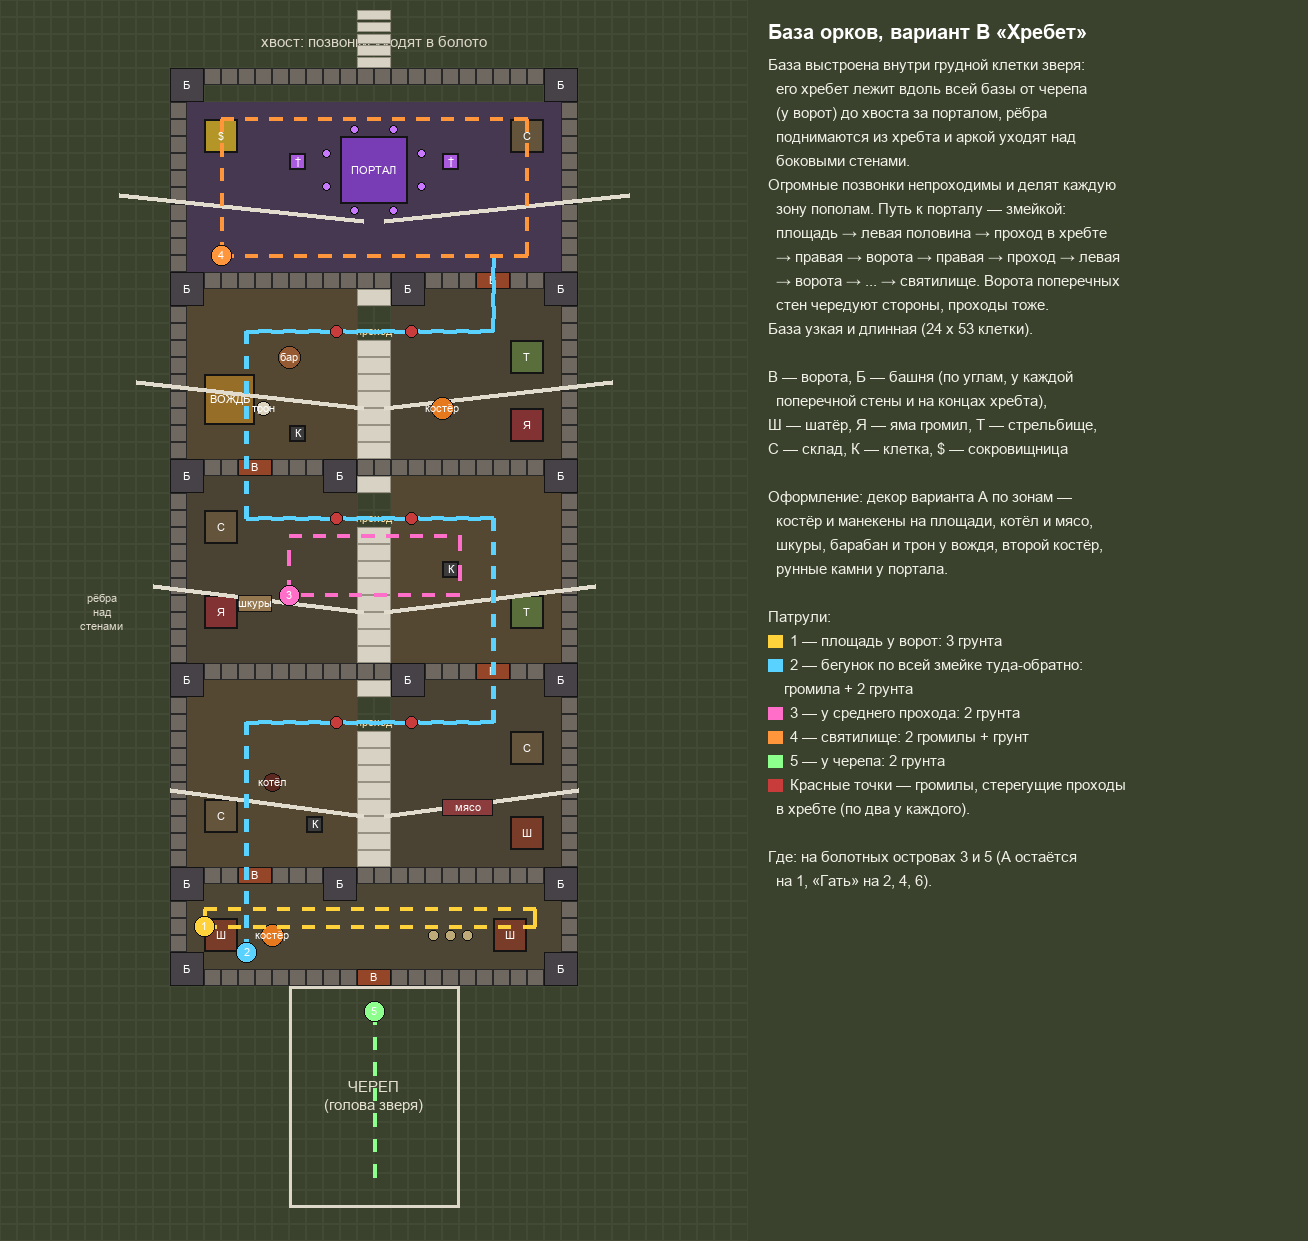
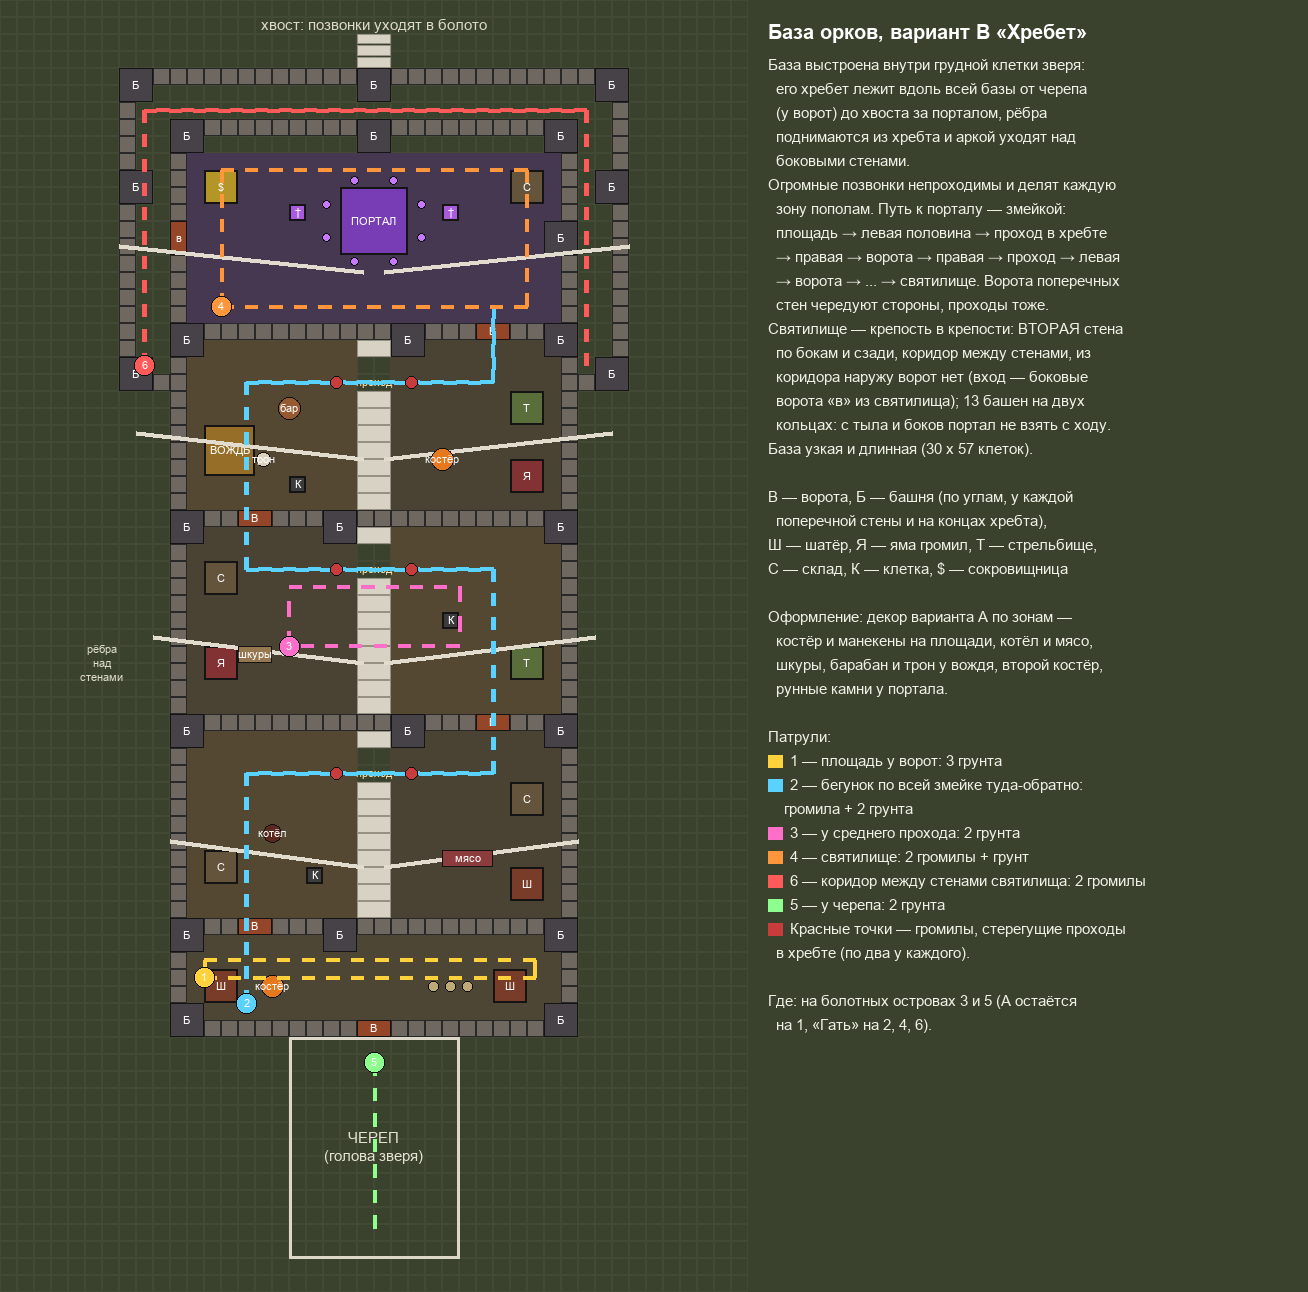
«Хребет» scheme: the sanctum walled twice (the user: the player may go straight at the portal) -- a second wall round its sides and back, a corridor with its own patrol, 13 towers on the two rings

diff --git a/Design/orc_base_living_c.py b/Design/orc_base_living_c.py
@@ -9,7 +9,7 @@ on the origin, the front at the bottom), for approval.
 from PIL import Image, ImageDraw, ImageFont
 
 C = 17
-X0, X1, Z0, Z1 = -22, 22, -63, 10
+X0, X1, Z0, Z1 = -22, 22, -63, 13
 LEGEND_W = 560
 W, H = (X1 - X0) * C + LEGEND_W, (Z1 - Z0) * C
 img = Image.new("RGB", (W, H), (58, 66, 46))
@@ -78,6 +78,17 @@ hwall(-11, 10, -18, gaps=(-8, -7))
 hwall(-11, 10, -7, gaps=(6, 7))
 for gx, gz in ((-1, -48), (-8, -42), (6, -30), (-8, -18), (6, -7)):
     rect(gx, gz, 2, 1, GATE, label="В")
+# the sanctum, a fortress in the fortress (the user: the player may go straight at it, not through the
+# gates): a SECOND wall round its sides and back, a corridor between; no gate out of it -- the
+# corridor is entered from the sanctum by a side gate in the inner wall
+for z in range(-10, 9):
+    rect(-15, z, 1, 1, WALL, outline=(40, 40, 40))
+    rect(14, z, 1, 1, WALL, outline=(40, 40, 40))
+for x in range(-15, 15):
+    rect(x, 8, 1, 1, WALL, outline=(40, 40, 40))
+for x in (-14, -13, 12, 13):
+    rect(x, -10, 1, 1, WALL, outline=(40, 40, 40))
+rect(-12, -2, 1, 2, GATE, label="в")
 
 # the spine: giant vertebrae, impassable, a gap in each zone (the way across), the gaps alternate
 GAPS = {-33, -32, -21, -20, -10, -9}
@@ -92,7 +103,9 @@ for z in (-32.5, -20.5, -9.5):
 
 TOWERS = [(-12, -48), (10, -48), (-12, 4), (10, 4),
           (-12, -43), (10, -43), (-12, -31), (10, -31), (-12, -19), (10, -19), (-12, -8), (10, -8),
-          (-3, -43), (1, -31), (-3, -19), (1, -8)]               # on the spine's ends at every cross wall
+          (-3, -43), (1, -31), (-3, -19), (1, -8),               # on the spine's ends at every cross wall
+          (10, -2), (-1, 4),                                     # the sanctum's inner wall: its right side, its back
+          (-15, -10), (13, -10), (-15, 7), (13, 7), (-15, 1), (13, 1), (-1, 7)]   # its outer wall
 for tx, tz in TOWERS:
     rect(tx, tz, 2, 2, TOWER, label="Б")
 
@@ -135,9 +148,9 @@ for k in range(8):
 # the skull at the head: the spine runs from it to the portal
 d.rectangle([px(-5, -48), px(5, -61)], outline=(220, 215, 200), width=3)
 d.text(px(0, -54.5), "ЧЕРЕП\n(голова зверя)", fill=(230, 225, 210), font=FONT, anchor="mm", align="center")
-d.text(px(0, 7.5), "хвост: позвонки уходят в болото", fill=(220, 215, 200), font=FONT, anchor="mm")
-for k in range(5):
-    rect(-1, 6 + k * 0.7, 2, 0.6, SPINE, outline=(150, 145, 130))
+d.text(px(0, 11.5), "хвост: позвонки уходят в болото", fill=(220, 215, 200), font=FONT, anchor="mm")
+for k in range(3):
+    rect(-1, 9 + k * 0.7, 2, 0.6, SPINE, outline=(150, 145, 130))
 
 PATROLS = [
     ("1", (255, 210, 60), [(-10, -44.5), (9.5, -44.5), (9.5, -43.5), (-10, -43.5), (-10, -44.5)]),
@@ -145,6 +158,7 @@ PATROLS = [
                            (7, -9.5), (-7.5, -9.5), (-7.5, -20.5), (7, -20.5), (7, -32.5), (-7.5, -32.5), (-7.5, -46)]),
     ("3", (255, 110, 200), [(-5, -25), (-5, -21.5), (5, -21.5), (5, -25), (-5, -25)]),
     ("4", (255, 150, 60), [(-9, -5), (9, -5), (9, 3), (-9, 3), (-9, -5)]),
+    ("6", (255, 90, 90), [(-13.5, -8.5), (-13.5, 6.5), (12.5, 6.5), (12.5, -8.5), (12.5, 6.5), (-13.5, 6.5), (-13.5, -8.5)]),
     ("5", (140, 255, 140), [(0, -49.5), (0, -60)]),
 ]
 
@@ -183,7 +197,12 @@ LINES = [
     ("  → правая → ворота → правая → проход → левая", None),
     ("  → ворота → ... → святилище. Ворота поперечных", None),
     ("  стен чередуют стороны, проходы тоже.", None),
-    ("База узкая и длинная (24 x 53 клетки).", None),
+    ("Святилище — крепость в крепости: ВТОРАЯ стена", None),
+    ("  по бокам и сзади, коридор между стенами, из", None),
+    ("  коридора наружу ворот нет (вход — боковые", None),
+    ("  ворота «в» из святилища); 13 башен на двух", None),
+    ("  кольцах: с тыла и боков портал не взять с ходу.", None),
+    ("База узкая и длинная (30 x 57 клеток).", None),
     ("", None),
     ("В — ворота, Б — башня (по углам, у каждой", None),
     ("  поперечной стены и на концах хребта),", None),
@@ -201,6 +220,7 @@ LINES = [
     ("    громила + 2 грунта", None),
     ("3 — у среднего прохода: 2 грунта", (255, 110, 200)),
     ("4 — святилище: 2 громилы + грунт", (255, 150, 60)),
+    ("6 — коридор между стенами святилища: 2 громилы", (255, 90, 90)),
     ("5 — у черепа: 2 грунта", (140, 255, 140)),
     ("Красные точки — громилы, стерегущие проходы", (200, 60, 60)),
     ("  в хребте (по два у каждого).", None),

diff --git a/Design/features/orc-camps-and-main-base.md b/Design/features/orc-camps-and-main-base.md
@@ -74,6 +74,9 @@
 >   gaps alternate (z -33, -21, -10), cross-wall gates alternate sides (z -42 L, -30 R, -18 L, -7 R), so the way
 >   snakes; skull at the front gate (head), tail behind the portal; ribs from the spine over the side walls.
 >   Patrols: plaza, a runner along the whole snake, middle gap, sanctum, skull; 2 brutes per spine gap.
+>   User note (same rule as A): the player may go straight at the portal -> the sanctum got a SECOND wall
+>   round its sides and back (x -15/14, z 8), a corridor with no gate out (entered by a 1x2 side gate in the
+>   inner wall at x -12), 13 towers on the two rings, patrol 6 (2 brutes) in the corridor. Re-sent. Now 30x57.
 >   Proposed: on swamp islands 3 and 5 (A on 1, «Гать» on 2/4/6) -- needs their pad elongated.
 > - NEXT: other variants («Гать», «Хребет», «Кольцо»).
 > - Not seen in game; phone cost unmeasured.
